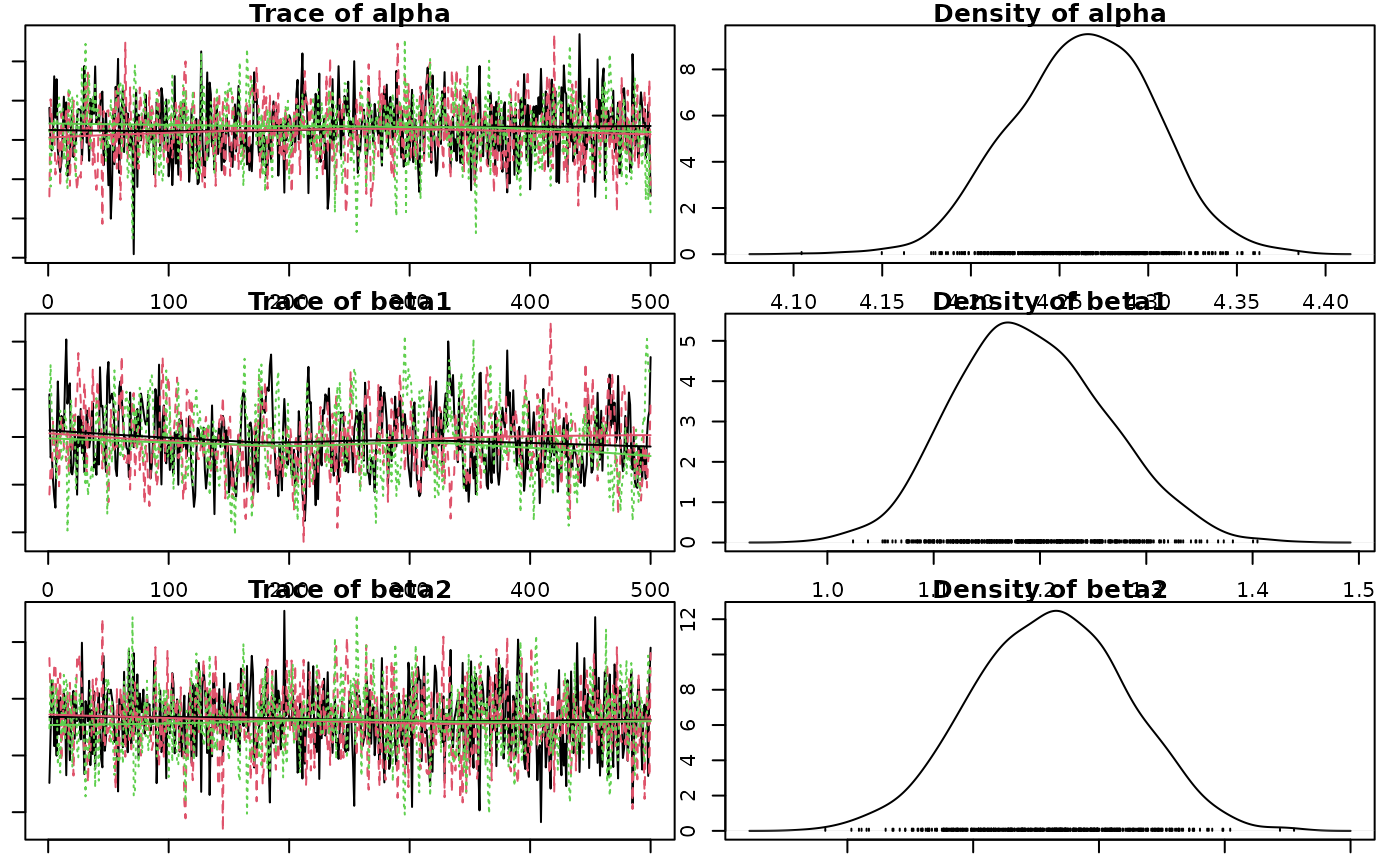
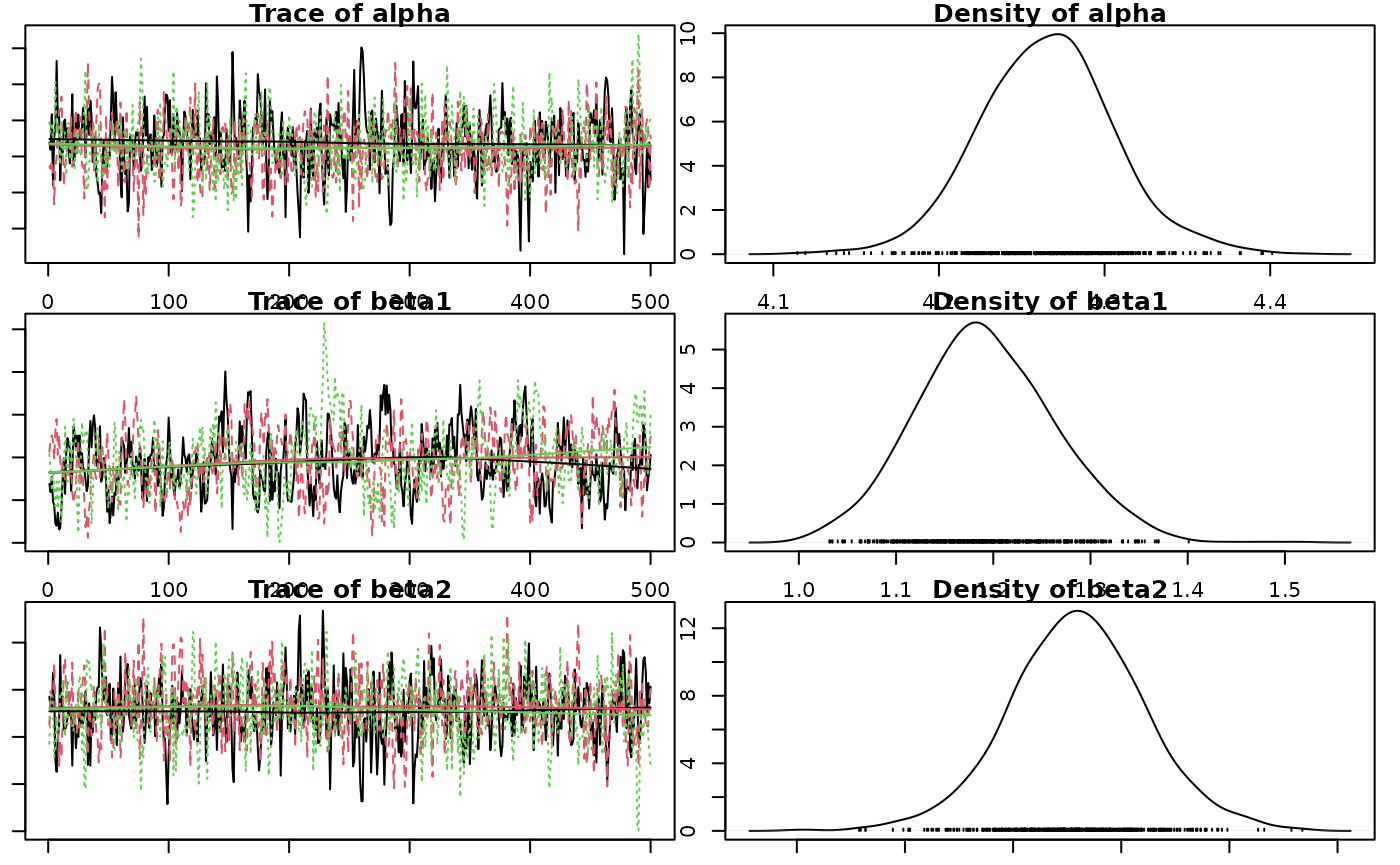
Deploying to gh-pages from @ poissonconsulting/jmbr@ce01ef0b801a9f78a660e3fea5599989fb6ebed1 🚀

diff --git a/articles/jmbr.html b/articles/jmbr.html
@@ -290,14 +290,14 @@ value and discarding all other values.</p>
 <span><span class="co">#&gt; <span style="color: #949494;"># A tibble: 1 × 8</span></span></span>
 <span><span class="co">#&gt;       n     K nchains niters nthin   ess  rhat converged</span></span>
 <span><span class="co">#&gt;   <span style="color: #949494; font-style: italic;">&lt;int&gt;</span> <span style="color: #949494; font-style: italic;">&lt;int&gt;</span>   <span style="color: #949494; font-style: italic;">&lt;int&gt;</span>  <span style="color: #949494; font-style: italic;">&lt;int&gt;</span> <span style="color: #949494; font-style: italic;">&lt;int&gt;</span> <span style="color: #949494; font-style: italic;">&lt;int&gt;</span> <span style="color: #949494; font-style: italic;">&lt;dbl&gt;</span> <span style="color: #949494; font-style: italic;">&lt;lgl&gt;</span>    </span></span>
-<span><span class="co">#&gt; <span style="color: #BCBCBC;">1</span>    40     6       3    500    10   248  1.08 FALSE</span></span>
+<span><span class="co">#&gt; <span style="color: #BCBCBC;">1</span>    40     6       3    500    10   207  1.00 TRUE</span></span>
 <span><span class="co">#&gt; Warning in value[[3L]](cond): beep() could not play the sound due to the following error:</span></span>
 <span><span class="co">#&gt; Error in play.default(x, rate, ...): no audio drivers are available</span></span>
 <span><span class="va">analysis</span> <span class="op">&lt;-</span> <span class="fu"><a href="https://rdrr.io/pkg/mbr/man/reanalyse.html" class="external-link">reanalyse</a></span><span class="op">(</span><span class="va">analysis</span><span class="op">)</span></span>
 <span><span class="co">#&gt; <span style="color: #949494;"># A tibble: 1 × 8</span></span></span>
 <span><span class="co">#&gt;       n     K nchains niters nthin   ess  rhat converged</span></span>
 <span><span class="co">#&gt;   <span style="color: #949494; font-style: italic;">&lt;int&gt;</span> <span style="color: #949494; font-style: italic;">&lt;int&gt;</span>   <span style="color: #949494; font-style: italic;">&lt;int&gt;</span>  <span style="color: #949494; font-style: italic;">&lt;int&gt;</span> <span style="color: #949494; font-style: italic;">&lt;int&gt;</span> <span style="color: #949494; font-style: italic;">&lt;int&gt;</span> <span style="color: #949494; font-style: italic;">&lt;dbl&gt;</span> <span style="color: #949494; font-style: italic;">&lt;lgl&gt;</span>    </span></span>
-<span><span class="co">#&gt; <span style="color: #BCBCBC;">1</span>    40     6       3    500    20   454  1.00 TRUE</span></span>
+<span><span class="co">#&gt; <span style="color: #BCBCBC;">1</span>    40     6       3    500    10   207  1.00 TRUE</span></span>
 <span><span class="co">#&gt; Warning in value[[3L]](cond): beep() could not play the sound due to the following error:</span></span>
 <span><span class="co">#&gt; Error in play.default(x, rate, ...): no audio drivers are available</span></span></code></pre></div>
 <p><strong>Analysis Table:</strong></p>
@@ -344,12 +344,12 @@ between- and within-chain estimates for model parameters.
 <span><span class="co">#&gt; <span style="color: #949494;"># A tibble: 6 × 7</span></span></span>
 <span><span class="co">#&gt;   term        estimate     sd  zscore   lower   upper   pvalue</span></span>
 <span><span class="co">#&gt;   <span style="color: #949494; font-style: italic;">&lt;term&gt;</span>         <span style="color: #949494; font-style: italic;">&lt;dbl&gt;</span>  <span style="color: #949494; font-style: italic;">&lt;dbl&gt;</span>   <span style="color: #949494; font-style: italic;">&lt;dbl&gt;</span>   <span style="color: #949494; font-style: italic;">&lt;dbl&gt;</span>   <span style="color: #949494; font-style: italic;">&lt;dbl&gt;</span>    <span style="color: #949494; font-style: italic;">&lt;dbl&gt;</span></span></span>
-<span><span class="co">#&gt; <span style="color: #BCBCBC;">1</span> alpha         4.26   0.039<span style="text-decoration: underline;">9</span> 107.     4.19    4.34   0.000<span style="text-decoration: underline;">666</span></span></span>
-<span><span class="co">#&gt; <span style="color: #BCBCBC;">2</span> beta1         1.19   0.070<span style="text-decoration: underline;">6</span>  16.9    1.06    1.34   0.000<span style="text-decoration: underline;">666</span></span></span>
-<span><span class="co">#&gt; <span style="color: #BCBCBC;">3</span> beta2        -<span style="color: #BB0000;">0.018</span><span style="color: #BB0000; text-decoration: underline;">8</span> 0.030<span style="text-decoration: underline;">5</span>  -<span style="color: #BB0000;">0.632</span> -<span style="color: #BB0000;">0.079</span><span style="color: #BB0000; text-decoration: underline;">3</span>  0.038<span style="text-decoration: underline;">4</span> 0.536   </span></span>
-<span><span class="co">#&gt; <span style="color: #BCBCBC;">4</span> beta3        -<span style="color: #BB0000;">0.270</span>  0.036<span style="text-decoration: underline;">2</span>  -<span style="color: #BB0000;">7.50</span>  -<span style="color: #BB0000;">0.346</span>  -<span style="color: #BB0000;">0.207</span>  0.000<span style="text-decoration: underline;">666</span></span></span>
-<span><span class="co">#&gt; <span style="color: #BCBCBC;">5</span> log_sAnnual  -<span style="color: #BB0000;">2.24</span>   0.337   -<span style="color: #BB0000;">6.75</span>  -<span style="color: #BB0000;">3.06</span>   -<span style="color: #BB0000;">1.75</span>   0.000<span style="text-decoration: underline;">666</span></span></span>
-<span><span class="co">#&gt; <span style="color: #BCBCBC;">6</span> sAnnual       0.107  0.031<span style="text-decoration: underline;">8</span>   3.40   0.046<span style="text-decoration: underline;">9</span>  0.175  0.000<span style="text-decoration: underline;">666</span></span></span></code></pre></div>
+<span><span class="co">#&gt; <span style="color: #BCBCBC;">1</span> alpha         4.27   0.040<span style="text-decoration: underline;">8</span> 105.     4.19    4.35   0.000<span style="text-decoration: underline;">666</span></span></span>
+<span><span class="co">#&gt; <span style="color: #BCBCBC;">2</span> beta1         1.19   0.071<span style="text-decoration: underline;">3</span>  16.7    1.06    1.34   0.000<span style="text-decoration: underline;">666</span></span></span>
+<span><span class="co">#&gt; <span style="color: #BCBCBC;">3</span> beta2        -<span style="color: #BB0000;">0.020</span><span style="color: #BB0000; text-decoration: underline;">5</span> 0.031<span style="text-decoration: underline;">8</span>  -<span style="color: #BB0000;">0.646</span> -<span style="color: #BB0000;">0.085</span><span style="color: #BB0000; text-decoration: underline;">5</span>  0.043<span style="text-decoration: underline;">1</span> 0.494   </span></span>
+<span><span class="co">#&gt; <span style="color: #BCBCBC;">4</span> beta3        -<span style="color: #BB0000;">0.270</span>  0.036<span style="text-decoration: underline;">4</span>  -<span style="color: #BB0000;">7.48</span>  -<span style="color: #BB0000;">0.347</span>  -<span style="color: #BB0000;">0.207</span>  0.000<span style="text-decoration: underline;">666</span></span></span>
+<span><span class="co">#&gt; <span style="color: #BCBCBC;">5</span> log_sAnnual  -<span style="color: #BB0000;">2.23</span>   0.319   -<span style="color: #BB0000;">7.06</span>  -<span style="color: #BB0000;">2.90</span>   -<span style="color: #BB0000;">1.73</span>   0.000<span style="text-decoration: underline;">666</span></span></span>
+<span><span class="co">#&gt; <span style="color: #BCBCBC;">6</span> sAnnual       0.108  0.031<span style="text-decoration: underline;">2</span>   3.52   0.054<span style="text-decoration: underline;">9</span>  0.177  0.000<span style="text-decoration: underline;">666</span></span></span></code></pre></div>
 <p>The estimate is the <strong>median</strong> by default.</p>
 <p>The zscore is <span class="math inline">\(mean / sd\)</span>.</p>
 <div class="sourceCode" id="cb12"><pre class="downlit sourceCode r">
@@ -357,12 +357,12 @@ between- and within-chain estimates for model parameters.
 <span><span class="co">#&gt; <span style="color: #949494;"># A tibble: 6 × 5</span></span></span>
 <span><span class="co">#&gt;   term        estimate   lower   upper svalue</span></span>
 <span><span class="co">#&gt;   <span style="color: #949494; font-style: italic;">&lt;term&gt;</span>         <span style="color: #949494; font-style: italic;">&lt;dbl&gt;</span>   <span style="color: #949494; font-style: italic;">&lt;dbl&gt;</span>   <span style="color: #949494; font-style: italic;">&lt;dbl&gt;</span>  <span style="color: #949494; font-style: italic;">&lt;dbl&gt;</span></span></span>
-<span><span class="co">#&gt; <span style="color: #BCBCBC;">1</span> alpha         4.26    4.19    4.34   10.6  </span></span>
-<span><span class="co">#&gt; <span style="color: #BCBCBC;">2</span> beta1         1.19    1.06    1.34   10.6  </span></span>
-<span><span class="co">#&gt; <span style="color: #BCBCBC;">3</span> beta2        -<span style="color: #BB0000;">0.018</span><span style="color: #BB0000; text-decoration: underline;">8</span> -<span style="color: #BB0000;">0.079</span><span style="color: #BB0000; text-decoration: underline;">3</span>  0.038<span style="text-decoration: underline;">4</span>  0.899</span></span>
-<span><span class="co">#&gt; <span style="color: #BCBCBC;">4</span> beta3        -<span style="color: #BB0000;">0.270</span>  -<span style="color: #BB0000;">0.346</span>  -<span style="color: #BB0000;">0.207</span>  10.6  </span></span>
-<span><span class="co">#&gt; <span style="color: #BCBCBC;">5</span> log_sAnnual  -<span style="color: #BB0000;">2.24</span>   -<span style="color: #BB0000;">3.06</span>   -<span style="color: #BB0000;">1.75</span>   10.6  </span></span>
-<span><span class="co">#&gt; <span style="color: #BCBCBC;">6</span> sAnnual       0.107   0.046<span style="text-decoration: underline;">9</span>  0.175  10.6</span></span></code></pre></div>
+<span><span class="co">#&gt; <span style="color: #BCBCBC;">1</span> alpha         4.27    4.19    4.35    10.6 </span></span>
+<span><span class="co">#&gt; <span style="color: #BCBCBC;">2</span> beta1         1.19    1.06    1.34    10.6 </span></span>
+<span><span class="co">#&gt; <span style="color: #BCBCBC;">3</span> beta2        -<span style="color: #BB0000;">0.020</span><span style="color: #BB0000; text-decoration: underline;">5</span> -<span style="color: #BB0000;">0.085</span><span style="color: #BB0000; text-decoration: underline;">5</span>  0.043<span style="text-decoration: underline;">1</span>   1.02</span></span>
+<span><span class="co">#&gt; <span style="color: #BCBCBC;">4</span> beta3        -<span style="color: #BB0000;">0.270</span>  -<span style="color: #BB0000;">0.347</span>  -<span style="color: #BB0000;">0.207</span>   10.6 </span></span>
+<span><span class="co">#&gt; <span style="color: #BCBCBC;">5</span> log_sAnnual  -<span style="color: #BB0000;">2.23</span>   -<span style="color: #BB0000;">2.90</span>   -<span style="color: #BB0000;">1.73</span>    10.6 </span></span>
+<span><span class="co">#&gt; <span style="color: #BCBCBC;">6</span> sAnnual       0.108   0.054<span style="text-decoration: underline;">9</span>  0.177   10.6</span></span></code></pre></div>
 <p>The s-value is the <strong>suprisal</strong> value, which is a
 measure of directionality with respect to zero.</p>
 <p>The s-value is zero (unsurprising) when <em>p-value</em> = 1.0 and

diff --git a/index.html b/index.html
@@ -128,25 +128,22 @@
 <span><span class="co">#&gt; # A tibble: 1 × 8</span></span>
 <span><span class="co">#&gt;       n     K nchains niters nthin   ess  rhat converged</span></span>
 <span><span class="co">#&gt;   &lt;int&gt; &lt;int&gt;   &lt;int&gt;  &lt;int&gt; &lt;int&gt; &lt;int&gt; &lt;dbl&gt; &lt;lgl&gt;    </span></span>
-<span><span class="co">#&gt; 1    40     5       3    500     1    10  5.61 FALSE</span></span>
+<span><span class="co">#&gt; 1    40     5       3    500     1    16  13.1 FALSE</span></span>
 <span><span class="va">analysis</span> <span class="op">&lt;-</span> <span class="fu"><a href="https://rdrr.io/pkg/mbr/man/reanalyse.html" class="external-link">reanalyse</a></span><span class="op">(</span><span class="va">analysis</span><span class="op">)</span></span>
 <span><span class="co">#&gt; # A tibble: 1 × 8</span></span>
 <span><span class="co">#&gt;       n     K nchains niters nthin   ess  rhat converged</span></span>
 <span><span class="co">#&gt;   &lt;int&gt; &lt;int&gt;   &lt;int&gt;  &lt;int&gt; &lt;int&gt; &lt;int&gt; &lt;dbl&gt; &lt;lgl&gt;    </span></span>
-<span><span class="co">#&gt; 1    40     5       3    500     2    50  5.64 FALSE</span></span>
+<span><span class="co">#&gt; 1    40     5       3    500     2    24  3.06 FALSE</span></span>
 <span></span>
-<span><span class="fu"><a href="https://rdrr.io/r/stats/coef.html" class="external-link">coef</a></span><span class="op">(</span><span class="va">analysis</span><span class="op">)</span></span>
-<span><span class="co">#&gt; Warning: The `simplify` argument of `coef()` must be TRUE as of mcmcr 0.4.1.</span></span>
-<span><span class="co">#&gt; ℹ The deprecated feature was likely used in the base package.</span></span>
-<span><span class="co">#&gt;   Please report the issue to the authors.</span></span>
-<span><span class="co">#&gt; # A tibble: 5 × 7</span></span>
-<span><span class="co">#&gt;   term        estimate    sd zscore  lower upper   pvalue</span></span>
-<span><span class="co">#&gt;   &lt;term&gt;         &lt;dbl&gt; &lt;dbl&gt;  &lt;dbl&gt;  &lt;dbl&gt; &lt;dbl&gt;    &lt;dbl&gt;</span></span>
-<span><span class="co">#&gt; 1 alpha         4.21   1.49   2.05   0.745 4.60  0.000666</span></span>
-<span><span class="co">#&gt; 2 beta1        -0.539  1.18  -0.168 -1.90  1.29  0.820   </span></span>
-<span><span class="co">#&gt; 3 beta2         0.0127 0.543  0.556 -0.375 1.34  0.920   </span></span>
-<span><span class="co">#&gt; 4 beta3         0.155  0.299  0.267 -0.324 0.560 0.767   </span></span>
-<span><span class="co">#&gt; 5 log_sAnnual  -0.156  1.46  -0.308 -2.75  1.29  0.929</span></span>
+<span><span class="fu"><a href="https://rdrr.io/r/stats/coef.html" class="external-link">coef</a></span><span class="op">(</span><span class="va">analysis</span>, simplify <span class="op">=</span> <span class="cn">TRUE</span><span class="op">)</span></span>
+<span><span class="co">#&gt; # A tibble: 5 × 5</span></span>
+<span><span class="co">#&gt;   term        estimate   lower  upper svalue</span></span>
+<span><span class="co">#&gt;   &lt;term&gt;         &lt;dbl&gt;   &lt;dbl&gt;  &lt;dbl&gt;  &lt;dbl&gt;</span></span>
+<span><span class="co">#&gt; 1 alpha         4.24    1.65   4.36   10.6  </span></span>
+<span><span class="co">#&gt; 2 beta1         1.20   -0.0724 1.92    3.08 </span></span>
+<span><span class="co">#&gt; 3 beta2        -0.0142 -0.302  0.789   0.388</span></span>
+<span><span class="co">#&gt; 4 beta3        -0.281  -0.778  0.0792  2.84 </span></span>
+<span><span class="co">#&gt; 5 log_sAnnual  -2.04   -2.91   0.849   1.21</span></span>
 <span></span>
 <span><span class="fu"><a href="https://rdrr.io/r/graphics/plot.default.html" class="external-link">plot</a></span><span class="op">(</span><span class="va">analysis</span><span class="op">)</span></span></code></pre></div>
 <p><img src="tools/README-unnamed-chunk-3-1.png"><!-- --><img src="tools/README-unnamed-chunk-3-2.png"><!-- --></p>
